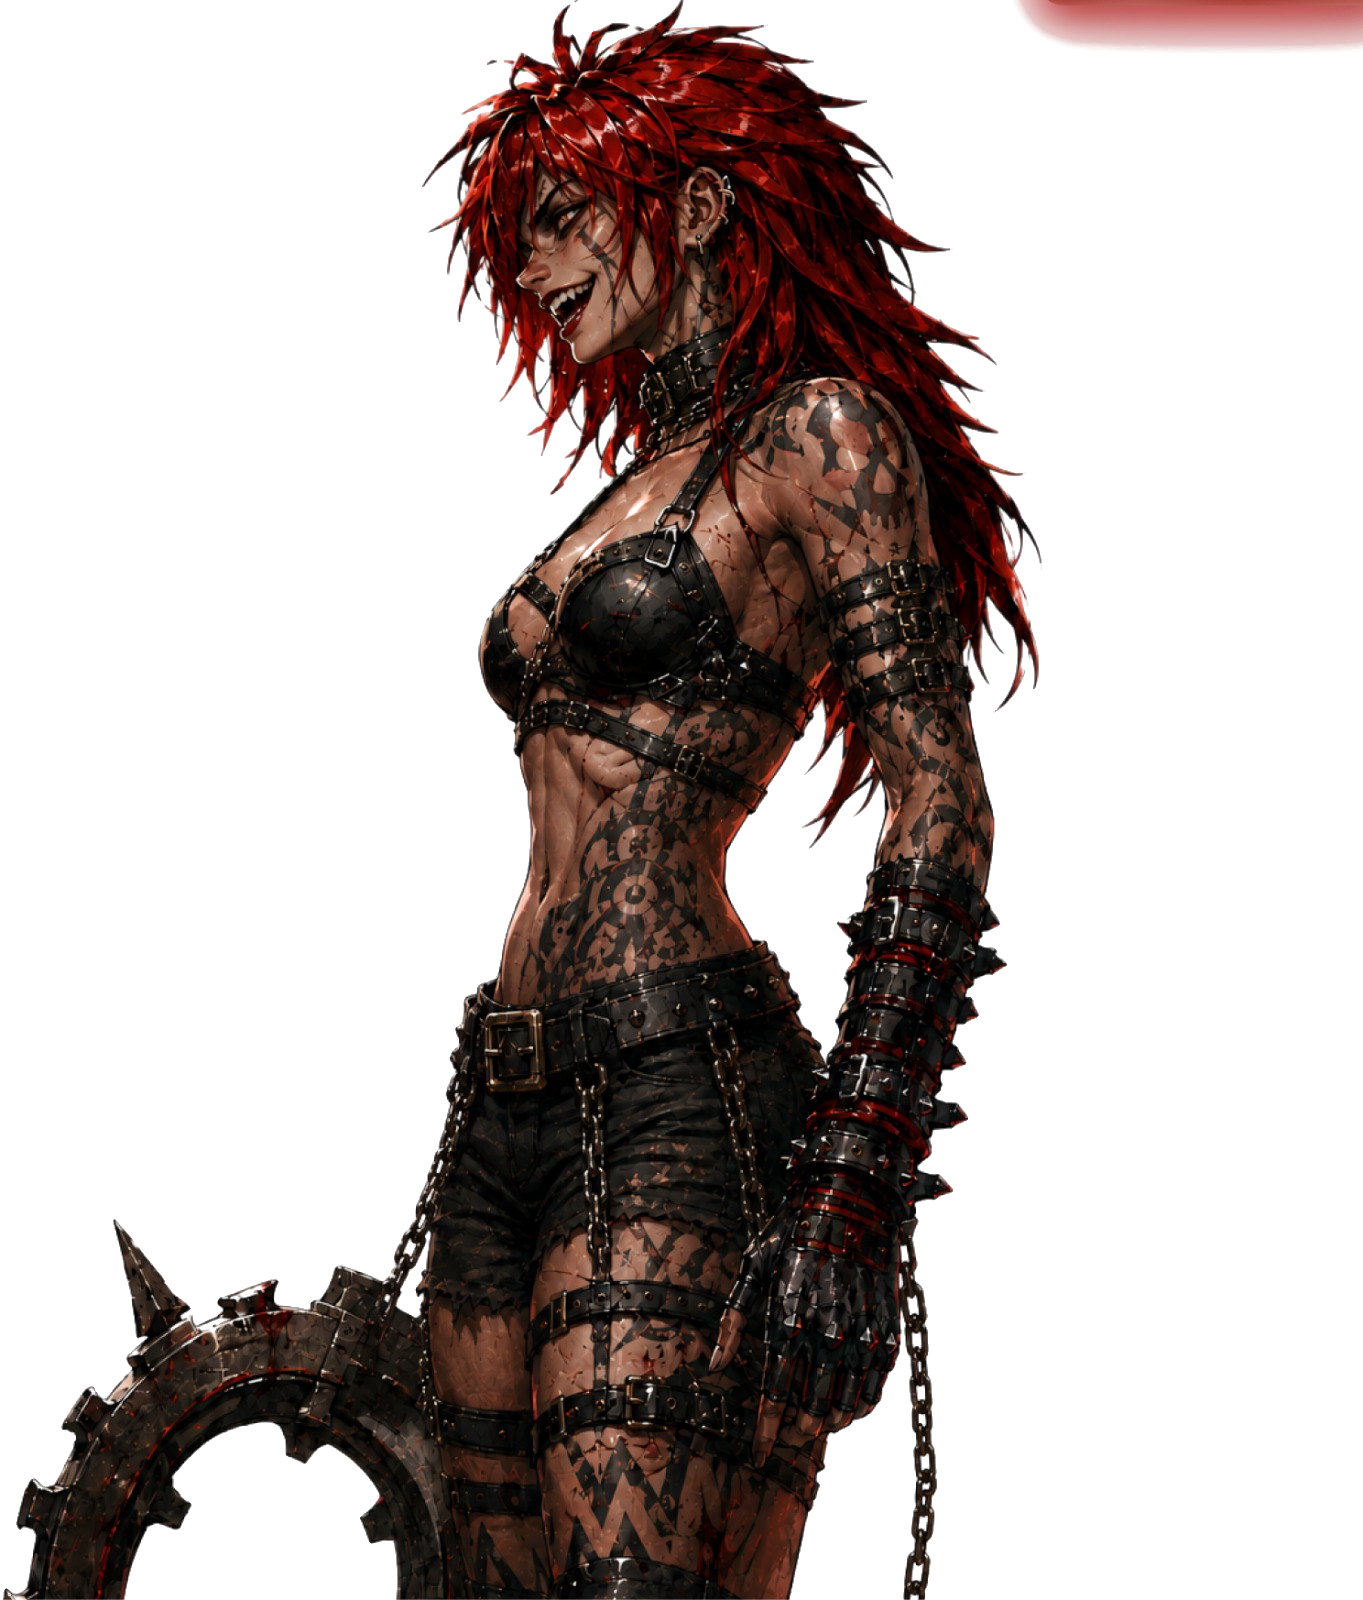
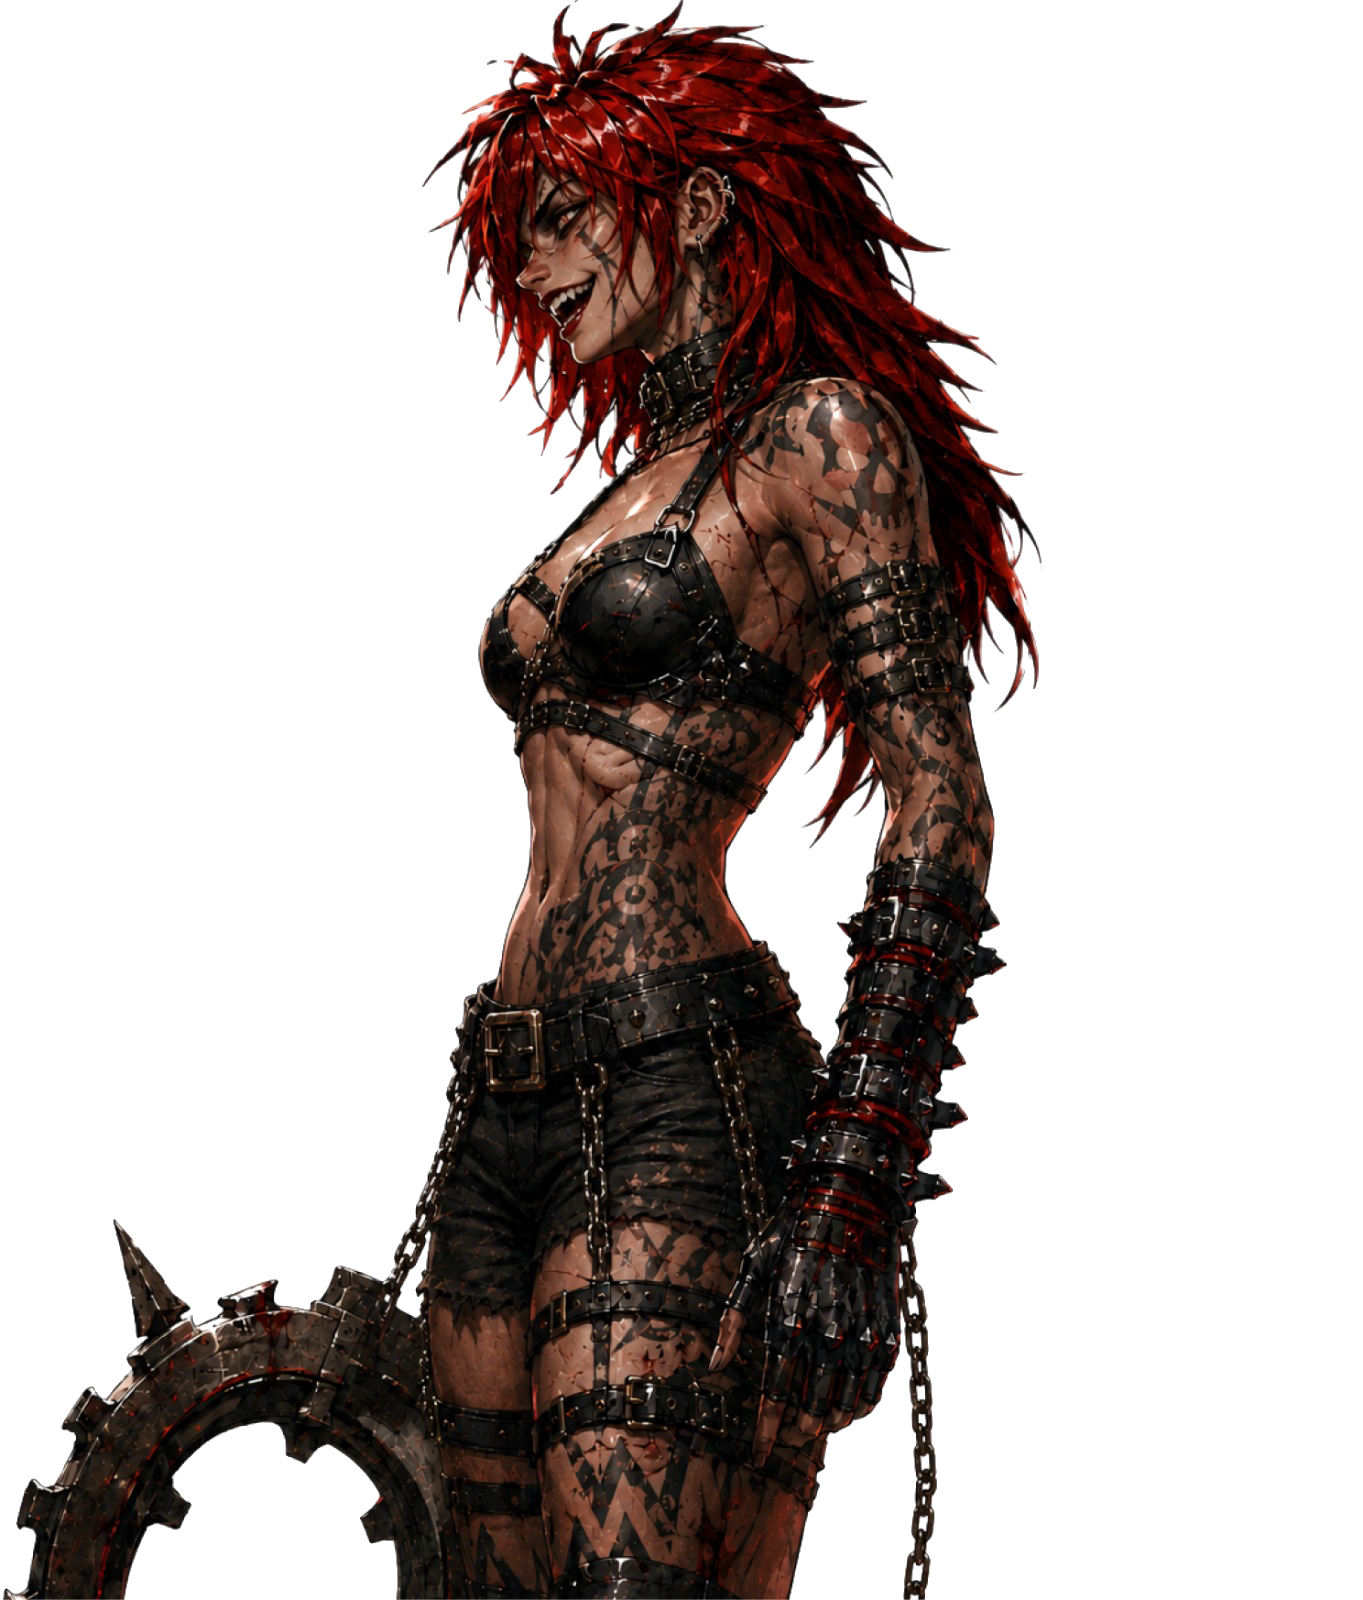
Fix duplicate smoke and remove animation; cleaned Cass image artifact

Changed region(s): [[0.7395, 0.0, 1.0, 0.0312]]

diff --git a/components/sections/Hero.tsx b/components/sections/Hero.tsx
@@ -114,16 +114,82 @@ export default function Hero() {
                                 href={link.href}
                                 className="group flex items-center gap-5 w-fit"
                             >
-                                <img
-                                    src="/assets/images/hero/nav-bullet.png"
-                                    alt=""
-                                    aria-hidden
-                                    className="w-[22px] h-[23px] shrink-0"
-                                    style={{ imageRendering: "pixelated" }}
-                                />
+                                {/* Default SVG (Visible normally) */}
+                                <svg width="24" height="25" viewBox="0 0 24 25" fill="none" xmlns="http://www.w3.org/2000/svg" className="w-[22px] h-[23px] shrink-0 group-hover:hidden">
+                                    <mask id="path-1-inside-1_2773_7471" fill="white">
+                                        <path d="M18.0107 4.45801H21.4033V18.0215H18.0107V21.4229H4.44531V18.0215H1.05469V4.45801H4.44531V1.07812H18.0107V4.45801Z"/>
+                                    </mask>
+                                    <path d="M18.0107 4.45801H21.4033V18.0215H18.0107V21.4229H4.44531V18.0215H1.05469V4.45801H4.44531V1.07812H18.0107V4.45801Z" fill="#342F36"/>
+                                    <path d="M18.0107 4.45801H17.0107V5.45801H18.0107V4.45801ZM21.4033 4.45801H22.4033V3.45801H21.4033V4.45801ZM21.4033 18.0215V19.0215H22.4033V18.0215H21.4033ZM18.0107 18.0215V17.0215H17.0107V18.0215H18.0107ZM18.0107 21.4229V22.4229H19.0107V21.4229H18.0107ZM4.44531 21.4229H3.44531V22.4229H4.44531V21.4229ZM4.44531 18.0215H5.44531V17.0215H4.44531V18.0215ZM1.05469 18.0215H0.0546875V19.0215H1.05469V18.0215ZM1.05469 4.45801V3.45801H0.0546875V4.45801H1.05469ZM4.44531 4.45801V5.45801H5.44531V4.45801H4.44531ZM4.44531 1.07812V0.078125H3.44531V1.07812H4.44531ZM18.0107 1.07812H19.0107V0.078125H18.0107V1.07812ZM18.0107 4.45801V5.45801H21.4033V4.45801V3.45801H18.0107V4.45801ZM21.4033 4.45801H20.4033V18.0215H21.4033H22.4033V4.45801H21.4033ZM21.4033 18.0215V17.0215H18.0107V18.0215V19.0215H21.4033V18.0215ZM18.0107 18.0215H17.0107V21.4229H18.0107H19.0107V18.0215H18.0107ZM18.0107 21.4229V20.4229H4.44531V21.4229V22.4229H18.0107V21.4229ZM4.44531 21.4229H5.44531V18.0215H4.44531H3.44531V21.4229H4.44531ZM4.44531 18.0215V17.0215H1.05469V18.0215V19.0215H4.44531V18.0215ZM1.05469 18.0215H2.05469V4.45801H1.05469H0.0546875V18.0215H1.05469ZM1.05469 4.45801V5.45801H4.44531V4.45801V3.45801H1.05469V4.45801ZM4.44531 4.45801H5.44531V1.07812H4.44531H3.44531V4.45801H4.44531ZM4.44531 1.07812V2.07812H18.0107V1.07812V0.078125H4.44531V1.07812ZM18.0107 1.07812H17.0107V4.45801H18.0107H19.0107V1.07812H18.0107Z" fill="#454545" mask="url(#path-1-inside-1_2773_7471)"/>
+                                    <path d="M5.65973 1.58883L20.9091 16.8344L20.9092 15.7776L6.44748 1.58969L5.65973 1.58883Z" fill="url(#paint0_linear_2773_7471)" style={{ mixBlendMode: "color-dodge" }}/>
+                                    <path d="M5.65973 1.58883L20.9091 16.8344L20.9092 15.7776L6.44748 1.58969L5.65973 1.58883Z" stroke="#787577"/>
+                                    <path d="M2.26662 4.9776L17.519 20.2257L17.5213 18.2491L4.24417 4.97781L2.26662 4.9776Z" fill="url(#paint1_linear_2773_7471)" style={{ mixBlendMode: "color-dodge" }}/>
+                                    <path d="M2.26662 4.9776L17.519 20.2257L17.5213 18.2491L4.24417 4.97781L2.26662 4.9776Z" stroke="#787577"/>
+                                    <g filter="url(#filter0_d_2773_7471)">
+                                        <path d="M11.281 8.83457L14.1312 5.98503L16.5946 8.44791L13.7444 11.2975L16.473 14.0255L14.0096 16.4884L11.281 13.7603L8.42816 16.6126L5.96477 14.1498L8.81766 11.2975L6.10289 8.58324L8.56628 6.12036L11.281 8.83457Z" fill="#5C5C5C"/>
+                                    </g>
+                                    <defs>
+                                        <filter id="filter0_d_2773_7471" x="1.96094" y="5.98438" width="18.6328" height="18.6289" filterUnits="userSpaceOnUse" colorInterpolationFilters="sRGB">
+                                            <feFlood floodOpacity="0" result="BackgroundImageFix"/>
+                                            <feColorMatrix in="SourceAlpha" type="matrix" values="0 0 0 0 0 0 0 0 0 0 0 0 0 0 0 0 0 0 127 0" result="hardAlpha"/>
+                                            <feOffset dy="4"/>
+                                            <feGaussianBlur stdDeviation="2"/>
+                                            <feComposite in2="hardAlpha" operator="out"/>
+                                            <feColorMatrix type="matrix" values="0 0 0 0 0 0 0 0 0 0 0 0 0 0 0 0 0 0 0.25 0"/>
+                                            <feBlend mode="normal" in2="BackgroundImageFix" result="effect1_dropShadow_2773_7471"/>
+                                            <feBlend mode="normal" in="SourceGraphic" in2="effect1_dropShadow_2773_7471" result="shape"/>
+                                        </filter>
+                                        <linearGradient id="paint0_linear_2773_7471" x1="22.4152" y1="16.8903" x2="4.40008" y2="1.14812" gradientUnits="userSpaceOnUse">
+                                            <stop stopColor="#320647"/>
+                                            <stop offset="0.538462" stopColor="#7A0FAD"/>
+                                            <stop offset="0.990385" stopColor="#320647"/>
+                                        </linearGradient>
+                                        <linearGradient id="paint1_linear_2773_7471" x1="19.2824" y1="19.9841" x2="1.26588" y2="4.24061" gradientUnits="userSpaceOnUse">
+                                            <stop offset="0.182692" stopColor="#2E204A"/>
+                                            <stop offset="0.538462" stopColor="#6D4CB0"/>
+                                            <stop offset="0.860577" stopColor="#2E204A"/>
+                                        </linearGradient>
+                                    </defs>
+                                </svg>
+                                
+                                {/* Hover SVG (Visible on hover) */}
+                                <svg width="24" height="25" viewBox="0 0 24 25" fill="none" xmlns="http://www.w3.org/2000/svg" className="hidden group-hover:block w-[22px] h-[23px] shrink-0">
+                                    <mask id="path-1-inside-1_2773_7462" fill="white">
+                                        <path d="M18.0107 4.45801H21.4033V18.0215H18.0107V21.4229H4.44531V18.0215H1.05469V4.45801H4.44531V1.07812H18.0107V4.45801Z"/>
+                                    </mask>
+                                    <path d="M18.0107 4.45801H21.4033V18.0215H18.0107V21.4229H4.44531V18.0215H1.05469V4.45801H4.44531V1.07812H18.0107V4.45801Z" fill="#290533"/>
+                                    <path d="M18.0107 4.45801H17.0107V5.45801H18.0107V4.45801ZM21.4033 4.45801H22.4033V3.45801H21.4033V4.45801ZM21.4033 18.0215V19.0215H22.4033V18.0215H21.4033ZM18.0107 18.0215V17.0215H17.0107V18.0215H18.0107ZM18.0107 21.4229V22.4229H19.0107V21.4229H18.0107ZM4.44531 21.4229H3.44531V22.4229H4.44531V21.4229ZM4.44531 18.0215H5.44531V17.0215H4.44531V18.0215ZM1.05469 18.0215H0.0546875V19.0215H1.05469V18.0215ZM1.05469 4.45801V3.45801H0.0546875V4.45801H1.05469ZM4.44531 4.45801V5.45801H5.44531V4.45801H4.44531ZM4.44531 1.07812V0.078125H3.44531V1.07812H4.44531ZM18.0107 1.07812H19.0107V0.078125H18.0107V1.07812ZM18.0107 4.45801V5.45801H21.4033V4.45801V3.45801H18.0107V4.45801ZM21.4033 4.45801H20.4033V18.0215H21.4033H22.4033V4.45801H21.4033ZM21.4033 18.0215V17.0215H18.0107V18.0215V19.0215H21.4033V18.0215ZM18.0107 18.0215H17.0107V21.4229H18.0107H19.0107V18.0215H18.0107ZM18.0107 21.4229V20.4229H4.44531V21.4229V22.4229H18.0107V21.4229ZM4.44531 21.4229H5.44531V18.0215H4.44531H3.44531V21.4229H4.44531ZM4.44531 18.0215V17.0215H1.05469V18.0215V19.0215H4.44531V18.0215ZM1.05469 18.0215H2.05469V4.45801H1.05469H0.0546875V18.0215H1.05469ZM1.05469 4.45801V5.45801H4.44531V4.45801V3.45801H1.05469V4.45801ZM4.44531 4.45801H5.44531V1.07812H4.44531H3.44531V4.45801H4.44531ZM4.44531 1.07812V2.07812H18.0107V1.07812V0.078125H4.44531V1.07812ZM18.0107 1.07812H17.0107V4.45801H18.0107H19.0107V1.07812H18.0107Z" fill="#FC80BB" mask="url(#path-1-inside-1_2773_7462)"/>
+                                    <path d="M21.4084 15.5679L6.65117 1.08947L4.45231 1.08835L21.4084 18.0424L21.4084 15.5679Z" fill="url(#paint0_linear_2773_7462)" style={{ mixBlendMode: "color-dodge" }}/>
+                                    <path d="M18.0205 18.0422L4.45049 4.47729L1.05904 4.47731L18.018 21.4311L18.0205 18.0422Z" fill="url(#paint1_linear_2773_7462)" style={{ mixBlendMode: "color-dodge" }}/>
+                                    <g filter="url(#filter0_d_2773_7462)">
+                                        <path d="M11.281 8.83457L14.1312 5.98503L16.5946 8.44791L13.7444 11.2975L16.473 14.0255L14.0096 16.4884L11.281 13.7603L8.42816 16.6126L5.96477 14.1498L8.81766 11.2975L6.10289 8.58324L8.56628 6.12036L11.281 8.83457Z" fill="#66D0EB"/>
+                                    </g>
+                                    <defs>
+                                        <filter id="filter0_d_2773_7462" x="1.96094" y="5.98438" width="18.6328" height="18.6289" filterUnits="userSpaceOnUse" colorInterpolationFilters="sRGB">
+                                            <feFlood floodOpacity="0" result="BackgroundImageFix"/>
+                                            <feColorMatrix in="SourceAlpha" type="matrix" values="0 0 0 0 0 0 0 0 0 0 0 0 0 0 0 0 0 0 127 0" result="hardAlpha"/>
+                                            <feOffset dy="4"/>
+                                            <feGaussianBlur stdDeviation="2"/>
+                                            <feComposite in2="hardAlpha" operator="out"/>
+                                            <feColorMatrix type="matrix" values="0 0 0 0 0 0 0 0 0 0 0 0 0 0 0 0 0 0 0.25 0"/>
+                                            <feBlend mode="normal" in2="BackgroundImageFix" result="effect1_dropShadow_2773_7462"/>
+                                            <feBlend mode="normal" in="SourceGraphic" in2="effect1_dropShadow_2773_7462" result="shape"/>
+                                        </filter>
+                                        <linearGradient id="paint0_linear_2773_7462" x1="22.4152" y1="16.8903" x2="4.40008" y2="1.14812" gradientUnits="userSpaceOnUse">
+                                            <stop stopColor="#320647"/>
+                                            <stop offset="0.538462" stopColor="#7A0FAD"/>
+                                            <stop offset="0.990385" stopColor="#320647"/>
+                                        </linearGradient>
+                                        <linearGradient id="paint1_linear_2773_7462" x1="19.2824" y1="19.9841" x2="1.26588" y2="4.24061" gradientUnits="userSpaceOnUse">
+                                            <stop offset="0.182692" stopColor="#2E204A"/>
+                                            <stop offset="0.538462" stopColor="#6D4CB0"/>
+                                            <stop offset="0.860577" stopColor="#2E204A"/>
+                                        </linearGradient>
+                                    </defs>
+                                </svg>
+                                
                                 <span className="relative flex items-center">
-                                    <span className="absolute top-0 bottom-0 -left-3 w-0 bg-accent-cyan group-hover:w-[2px] transition-all duration-300" />
-                                    <span className="font-tektur text-xl md:text-[length:clamp(19px,2.5svh,27px)] text-[#c9c9ce] group-hover:text-white transition-colors tracking-wide pb-1 border-b-2 border-transparent group-hover:border-white">
+                                    <span className="font-tektur text-xl md:text-[length:clamp(19px,2.5svh,27px)] text-[#c9c9ce] group-hover:text-white transition-colors tracking-wide pb-1 border-b-2 border-transparent group-hover:border-accent-cyan">
                                         {link.name}
                                     </span>
                                 </span>

diff --git a/components/sections/Seika.tsx b/components/sections/Seika.tsx
@@ -59,9 +59,6 @@ import SmokeStrip from "../ui/SmokeStrip";
 export default function Seika() {
     return (
         <section id="seika" className="screen-section relative overflow-hidden bg-black pt-32 pb-8 md:pt-40 md:pb-10">
-
-            <SmokeStrip className="hidden lg:block absolute top-0 left-0 z-0 w-full -translate-y-[50%]" />
-
             <div className="page-x relative z-10">
                 <div className="flex flex-col lg:flex-row items-center justify-between gap-6 lg:gap-6">
 

diff --git a/app/globals.css b/app/globals.css
@@ -205,8 +205,6 @@
     background-size: 50% 100%;
     mix-blend-mode: screen;
     opacity: 0.55;
-    animation: smoke-drift 30s linear infinite;
-    will-change: background-position;
   }
 
   @keyframes smoke-drift {

diff --git a/scratch/detect.py b/scratch/detect.py
@@ -1,0 +1,18 @@
+from PIL import Image
+
+img_path = r"d:\Ezzstar\Presale\public\assets\images\hero\char-11.png"
+img = Image.open(img_path).convert("RGBA")
+
+width, height = img.size
+print(f"Image size: {width}x{height}")
+
+# Find bounds of all non-transparent pixels in the right half (x > width/2)
+# We will look for disconnected blobs if possible, or just print the coordinates of non-transparent pixels in the top right.
+
+for y in range(0, int(height * 0.5), 10):
+    row_pixels = []
+    for x in range(int(width * 0.5), width, 10):
+        if img.getpixel((x, y))[3] > 10: # alpha > 10
+            row_pixels.append(x)
+    if row_pixels:
+        print(f"y={y}: x from {min(row_pixels)} to {max(row_pixels)}")

diff --git a/scratch/clean.py b/scratch/clean.py
@@ -1,0 +1,17 @@
+from PIL import Image
+
+img_path = r"d:\Ezzstar\Presale\public\assets\images\hero\char-11.png"
+img = Image.open(img_path).convert("RGBA")
+pixels = img.load()
+
+width, height = img.size
+
+cleared = 0
+for y in range(0, 100):
+    for x in range(850, width):
+        if pixels[x, y][3] > 0:
+            pixels[x, y] = (0, 0, 0, 0)
+            cleared += 1
+
+print(f"Cleared {cleared} pixels in the top right artifact region.")
+img.save(img_path)
